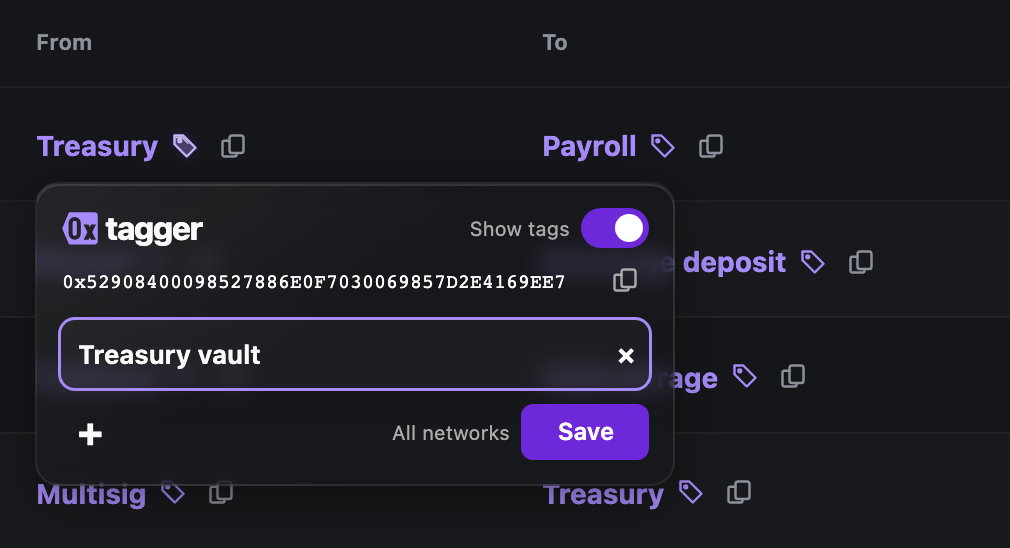
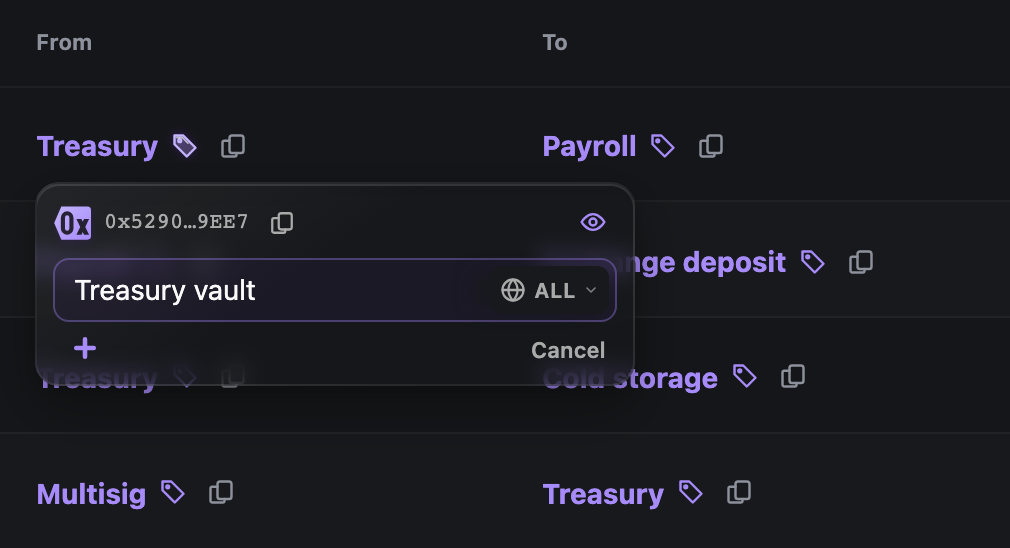
Default new tags to all networks and compact the address book

diff --git a/extension/book.css b/extension/book.css
@@ -1,21 +1,24 @@
-body { background: radial-gradient(ellipse at top right, var(--0xtagger-accent-canvas), transparent 55%), var(--0xtagger-canvas); }
-.book { width: min(1000px, calc(100% - 48px)); margin: 0 auto; padding: 28px 0; }
+body { background: var(--0xtagger-canvas); }
+.book { width: min(1080px, calc(100% - 40px)); margin: 0 auto; padding: 20px 0; }
 .book-header,.book-heading,.book-tools,.book-footer { display: flex; align-items: center; justify-content: space-between; gap: 16px; }
-.book-header { margin-bottom: 40px; }
-.book-header .brand { font-size: 24px; }
+.book-header { margin-bottom: 22px; }
+.book-header .brand { font-size: 22px; }
 .book-header .connection-line { width: 220px; }
-.book-heading { margin-bottom: 16px; }
-.book-heading h2 { font-size: 24px; letter-spacing: -.6px; }
-#count { margin: 4px 0 0; }
-.book-panel { padding: 0; overflow: hidden; }
-/* Search takes the room it needs; the two file actions belong together at the
-   end of the row rather than drifting apart across whatever is left. */
-.book-tools { justify-content: flex-start; gap: 8px; padding: 12px; border-bottom: 1px solid var(--0xtagger-line); }
-#search { flex: 1; max-width: 400px; margin-right: auto; }
-#import,#export { flex-shrink: 0; font-size: 11px; }
+.book-heading { margin-bottom: 12px; }
+.book-title { display: flex; align-items: baseline; flex-wrap: wrap; gap: 4px 10px; }
+.book-heading h2 { font-size: 20px; letter-spacing: -.5px; }
+#count { margin: 0; }
+#add-address { font-size: 12px; }
+.book-panel { padding: 0; overflow: hidden; border-radius: 10px; background: var(--0xtagger-panel); backdrop-filter: none; box-shadow: none; }
+/* Search takes the room it needs; sync and file actions stay together at the
+   end of the row. */
+.book-tools { justify-content: flex-start; gap: 12px; padding: 10px 12px; border-bottom: 1px solid var(--0xtagger-line); }
+#search { flex: 1; min-width: 0; max-width: 360px; margin-right: auto; padding: 7px 9px; font-size: 12px; }
+.book-actions { display: flex; align-items: center; flex-shrink: 0; gap: 4px; }
+#import,#export { font-size: 11px; padding: 7px 9px; }
 .table-scroll { overflow-x: auto; }
 table { width: 100%; border-collapse: collapse; }
-th,td { padding: 12px 16px; text-align: left; border-bottom: 1px solid var(--0xtagger-line); }
+th,td { padding: 7px 12px; text-align: left; border-bottom: 1px solid var(--0xtagger-line); }
 th { font-size: 10px; font-weight: 600; color: var(--0xtagger-muted); }
 th:first-child { width: 40%; }
 th:last-child { width: 48px; }
@@ -27,11 +30,12 @@ tr:last-child td { border-bottom: 0; }
 .records-table .network-cell,.records-table .source-cell { color: var(--0xtagger-muted); font-size: 11px; }
 .record { max-width: 100%; text-align: left; padding: 0; color: var(--0xtagger-ink); background: none; }
 .record:hover strong { color: var(--0xtagger-accent); }
-.record strong { display: block; font-size: 13px; font-weight: 700; overflow-wrap: anywhere; }
+.record strong { display: block; font-size: 12px; line-height: 1.4; font-weight: 650; overflow-wrap: anywhere; }
 .address-value { display: flex; align-items: center; gap: 5px; min-width: 0; }
-.address-value code { display: block; min-width: 0; font: 12px/1.6 ui-monospace, monospace; overflow-wrap: anywhere; }
+.address-value code { display: block; min-width: 0; font: 11px/1.5 ui-monospace, monospace; overflow-wrap: anywhere; }
 .address-value .address-short { display: none; }
-.address-value .copy { flex-shrink: 0; }
+.address-value .copy { flex: 0 0 22px; width: 22px; height: 22px; padding: 4px; }
+.address-value .copy svg { width: 14px; height: 14px; }
 .copy { color: var(--0xtagger-muted); }
 #empty { padding: 36px 16px; text-align: center; color: var(--0xtagger-muted); font-size: 13px; }
 #empty p { margin: 0 0 8px; }
@@ -48,12 +52,11 @@ tr:last-child td { border-bottom: 0; }
 }
 @media (max-width: 600px) {
   .book { width: calc(100% - 24px); padding: 16px 0; }
-  .book-header { margin-bottom: 28px; }
+  .book-header { margin-bottom: 18px; }
   .book-header .connection-line { width: 180px; }
-  .book-tools { display: grid; grid-template-columns: minmax(0,1fr) auto auto; gap: 8px; }
+  .book-tools { display: grid; grid-template-columns: minmax(0,1fr); gap: 6px; }
   #search { grid-column: 1 / -1; min-width: 0; max-width: none; margin-right: 0; }
-  #import { grid-column: 2; }
-  #export { grid-column: 3; }
+  .book-actions { justify-content: flex-end; }
   .records-table thead { position: absolute; width: 1px; height: 1px; overflow: hidden; clip-path: inset(50%); white-space: nowrap; }
   .records-table tbody { display: block; }
   .records-table tr { display: grid; grid-template-columns: minmax(0,1fr) auto; grid-template-areas: 'tag tag' 'network address'; column-gap: 10px; align-items: center; padding: 10px 12px; border-bottom: 1px solid var(--0xtagger-line); }

diff --git a/tests/browser/core.spec.js b/tests/browser/core.spec.js
@@ -803,16 +803,36 @@ test.describe('a name the website already shows', () => {
     await expect(fromSite(page)).toHaveCount(0);
   });
 
-  // A label belongs to the chain the page was showing it on. Saving an
-  // Ethereum contract's name to every network would put it against whatever
-  // sits at that address on Base.
-  test('saves a name to the network the website was showing', async ({ page }) => {
+  test('website suggestions default to all networks', async ({ page }) => {
     await open(page, labelled('row', other, 'Uniswap V3: Router'), [record]);
     await tagFor(page, 'row').click();
-    await expect(page.getByRole('dialog').locator('.save-scope')).toHaveText('Ethereum');
+    await expect(page.getByRole('dialog').locator('.save-scope')).toHaveText('All networks');
     await submit(page);
     await expect.poll(() => page.evaluate(() => window.saves.at(-1)))
-      .toMatchObject({ address: other, scope: 'eip155:1' });
+      .toMatchObject({ address: other, scope: 'global', source: 'etherscan:page' });
+  });
+
+  test('website suggestions use an explicitly selected network', async ({ page }) => {
+    await open(page, labelled('row', other, 'Uniswap V3: Router'), [record]);
+    await tagFor(page, 'row').click();
+    await page.getByRole('dialog').locator('.network').click();
+    await page.getByRole('listbox', { name: 'Save for' }).getByRole('option', { name: /Base/ }).click();
+    await submit(page);
+    await expect.poll(() => page.evaluate(() => window.saves.at(-1)))
+      .toMatchObject({ address: other, scope: 'eip155:8453', source: 'etherscan:page' });
+  });
+
+  test('adding a suggested name keeps saved network tags and defaults the new name to all networks', async ({ page }) => {
+    await open(page, labelled('row', other, 'Uniswap V3: Router'), [{ ...record, address: other, scope: 'eip155:1' }]);
+    await tagFor(page, 'row').click();
+    await expect(page.getByRole('dialog').locator('.save-scope').first()).toHaveText('Ethereum');
+    await offer(page).getByRole('button', { name: 'Add tag Uniswap V3: Router', exact: true }).click();
+    await submit(page);
+    expect(await page.evaluate(() => window.saves)).toEqual([
+      expect.objectContaining({ address: other, scope: 'global', tags: ['Uniswap V3: Router'] }),
+    ]);
+    expect(await page.evaluate(() => window.state.records.find(item => item.scope === 'eip155:1').tags))
+      .toEqual(['Treasury', 'Operations']);
   });
 
   // A name this editor put in the field itself is not something anyone typed,
@@ -884,7 +904,7 @@ test.describe('a name the website already shows', () => {
     await expect(fromSite(page)).toHaveText('(from Etherscan)');
     await submit(page);
     await expect.poll(() => page.evaluate(() => window.saves.at(-1)))
-      .toMatchObject({ address: other, scope: 'eip155:1', tags: ['Mog Coin'], source: 'etherscan:page' });
+      .toMatchObject({ address: other, scope: 'global', tags: ['Mog Coin'], source: 'etherscan:page' });
   });
 
   test('offers nothing for a token the row was cut short to name', async ({ page }) => {
@@ -926,11 +946,11 @@ test.describe('a name the website already shows', () => {
         await tagFor(page, 'token').click();
         await expect(input(page)).toHaveValue(name);
         await expect(fromSite(page)).toHaveText('(from Etherscan)');
-        await expect(page.getByRole('dialog').locator('.save-scope')).toHaveText('Ethereum');
+        await expect(page.getByRole('dialog').locator('.save-scope')).toHaveText('All networks');
         expect(await page.evaluate(() => window.saves)).toHaveLength(0);
         await submit(page);
         await expect.poll(() => page.evaluate(() => window.saves.at(-1)))
-          .toMatchObject({ address: token, scope: 'eip155:1', tags: [name], source: 'etherscan:page' });
+          .toMatchObject({ address: token, scope: 'global', tags: [name], source: 'etherscan:page' });
         await expect(page.locator('#token')).toHaveText('Staked Frax ... (sfrxUS...)');
         await page.locator('#token').click();
         expect(await page.evaluate(() => window.nativeClick)).toBe(`/token/${token}`);

diff --git a/extension/book.html b/extension/book.html
@@ -8,12 +8,19 @@
         <button id="location" aria-label="Address book" aria-haspopup="menu" aria-expanded="false" popovertarget="location-menu"><span>On this device</span><svg viewBox="0 0 16 16" fill="none" stroke="currentColor" stroke-width="1.5" aria-hidden="true"><path d="m4 6 4 4 4-4"/></svg></button>
         <div id="location-menu" popover role="menu" aria-label="Your address books"></div>
         <button id="remove-book" class="quiet icon" aria-label="Remove this address book"></button>
-        <button id="refresh" class="quiet icon" aria-label="Sync address book" data-tip="Sync address book"><svg viewBox="0 0 16 16" fill="none" stroke="currentColor" stroke-width="1.5" stroke-linecap="round" stroke-linejoin="round" aria-hidden="true"><path d="M13 5a5.5 5.5 0 1 0 .3 5M13 2v3H10"/></svg></button>
       </div>
     </header>
-    <section class="book-heading"><div><h2>Address book</h2><p id="count" class="muted"></p></div><button id="add-address" class="primary">+ Add address</button></section>
+    <section class="book-heading"><div class="book-title"><h2>Address book</h2><p id="count" class="muted"></p></div><button id="add-address" class="primary">+ Add address</button></section>
     <section class="panel book-panel">
-      <div class="book-tools"><input id="search" type="search" aria-label="Search address book" placeholder="Search tags or addresses" autocomplete="off" spellcheck="false" autocorrect="off" autocapitalize="off"><button id="import" class="quiet" data-tip="Brings in a 0xtagger export (.json), a Safe address book, or a Safe signer export (.csv)">Import</button><input id="import-file" type="file" accept="application/json,.json,text/csv,.csv" hidden><button id="export" class="quiet">Export book</button></div>
+      <div class="book-tools">
+        <input id="search" type="search" aria-label="Search address book" placeholder="Search tags or addresses" autocomplete="off" spellcheck="false" autocorrect="off" autocapitalize="off">
+        <div class="book-actions" role="group" aria-label="Address book actions">
+          <button id="refresh" class="quiet icon" aria-label="Sync address book" data-tip="Sync address book"><svg viewBox="0 0 16 16" fill="none" stroke="currentColor" stroke-width="1.5" stroke-linecap="round" stroke-linejoin="round" aria-hidden="true"><path d="M13 5a5.5 5.5 0 1 0 .3 5M13 2v3H10"/></svg></button>
+          <button id="import" class="quiet" data-tip="Brings in a 0xtagger export (.json), a Safe address book, or a Safe signer export (.csv)">Import</button>
+          <input id="import-file" type="file" accept="application/json,.json,text/csv,.csv" hidden>
+          <button id="export" class="quiet">Export book</button>
+        </div>
+      </div>
       <div class="table-scroll"><table class="records-table"><thead><tr><th>Tags</th><th>Address</th><th>Network</th><th>Source</th></tr></thead><tbody id="results"></tbody></table></div>
       <div id="empty"><p></p><button id="copy-in" type="button" class="quiet accent" hidden></button><small id="empty-hint">Drop a file here, or use Import: a 0xtagger export (.json), a Safe address book, or a Safe signer export (.csv).</small></div>
       <p id="shown" class="muted"></p>

diff --git a/docs/demo/screenshots.spec.js b/docs/demo/screenshots.spec.js
@@ -2,6 +2,37 @@ import { test, expect } from '@playwright/test';
 import { mkdir } from 'node:fs/promises';
 import { address, record, start } from '../../tests/browser/controller.js';
 
+test.use({ locale: 'en-US', timezoneId: 'UTC' });
+
+// Sample data, rendered by the same book used in the extension and on a server.
+// These are review images, kept separate from the behavioral test suite.
+test('capture the compact address book on light, dark and narrow surfaces', async ({ page }) => {
+  await mkdir('docs/images', { recursive: true });
+  await page.route('**/extension/book-extension.js', route => route.fulfill({ contentType: 'text/javascript', body: '' }));
+  for (const [theme, width] of [['dark', 1200], ['light', 1200], ['dark', 390]]) {
+    await page.setViewportSize({ width, height: 740 });
+    await page.emulateMedia({ colorScheme: theme });
+    await page.goto('/extension/book.html');
+    await page.evaluate(async () => {
+      const { startBook } = await import('/extension/book.js');
+      const names = ['Treasury', 'Operations Safe', 'Frax Finance: sfrxUSD Token', 'Curve: CRV Token',
+        'Revenue Splitter', 'Protocol Multisig', 'USDC Strategy', 'Governance Timelock',
+        'Core Contributors', 'Fee Receiver', 'Liquidity Operations', 'Reserve Vault'];
+      const state = { activeBook: 'demo', bookName: 'Personal', bookKind: 'server', stateRevision: 1,
+        books: [{ id: 'demo', name: 'Personal', kind: 'server', where: 'book.example' }],
+        syncedAt: '2026-10-27T16:00:00Z',
+        records: names.map((name, index) => ({ address: '0x' + (index + 10).toString(16).padStart(2, '0').repeat(20),
+          scope: index === 4 ? 'eip155:8453' : 'global', tags: [name], version: 'demo',
+          source: ['etherscan:page', 'arkham:api', 'agent'][index % 3] })),
+      };
+      await startBook({ rpc: async message => message.type === 'State' ? { state } : {}, watchBook: () => {} });
+      document.querySelector('#search').blur();
+      await document.fonts.ready;
+    });
+    await page.screenshot({ path: `docs/images/address-book-${width < 600 ? 'mobile' : theme}.png`, fullPage: true, animations: 'disabled' });
+  }
+});
+
 // The one still image the README shows. The moving demo beside it is recorded
 // by hand; everything here is drawn by the shipped controller over sample data,
 // so the picture cannot drift from what the extension actually does.

diff --git a/tests/browser/web.spec.js b/tests/browser/web.spec.js
@@ -5,6 +5,7 @@ const base = 'http://127.0.0.1:8723/0xtagger';
 const address = '0x' + '12'.repeat(20);
 const imported = '0x' + '34'.repeat(20);
 const added = '0x' + '56'.repeat(20);
+const globalAdded = '0x' + '57'.repeat(20);
 const key = { Authorization: 'Bearer test-only-token' };
 
 test('hosted book: one server, scoped edits, stale writes and file round trip without a browser key', async ({ page }) => {
@@ -48,6 +49,14 @@ test('hosted book: one server, scoped edits, stale writes and file round trip wi
     await expect(page.locator('.record', { hasText: 'Saved by the extension' })).toHaveCount(1);
 
     await page.getByRole('button', { name: '+ Add address', exact: true }).click();
+    await page.locator('#manual-address').fill(globalAdded);
+    await page.getByRole('button', { name: 'Add tags', exact: true }).click();
+    await expect(page.getByRole('dialog').locator('.save-scope')).toHaveText('All networks');
+    await page.getByRole('textbox', { name: 'Tag 1', exact: true }).fill('An all-networks tag');
+    await page.getByRole('textbox', { name: 'Tag 1', exact: true }).press('Enter');
+    await expect(page.getByRole('dialog')).toHaveCount(0);
+
+    await page.getByRole('button', { name: '+ Add address', exact: true }).click();
     await page.locator('#manual-address').fill(added);
     await page.locator('#network').fill('10');
     await page.getByRole('button', { name: 'Add tags', exact: true }).click();
@@ -61,9 +70,10 @@ test('hosted book: one server, scoped edits, stale writes and file round trip wi
     await page.getByRole('button', { name: 'Import 1 name', exact: true }).click();
     await expect(page.locator('#review')).toBeHidden();
     await page.reload();
-    await expect(page.locator('#results tr')).toHaveCount(4);
+    await expect(page.locator('#results tr')).toHaveCount(5);
     records = (await (await api.get(base + '/tags')).json()).records;
     expect(records.find(item => item.address === added)).toMatchObject({ scope: 'eip155:10', tags: ['New Optimism tag'] });
+    expect(records.find(item => item.address === globalAdded)).toMatchObject({ scope: 'global', tags: ['An all-networks tag'] });
     expect(records.find(item => item.address === imported)).toMatchObject({ scope: 'eip155:8453', source: 'safe:address-book' });
 
     const downloaded = page.waitForEvent('download');

diff --git a/extension/editor.js b/extension/editor.js
@@ -75,11 +75,10 @@ export function createEditor(container, { address, scope: opened = 'global', sta
   const offered = suggestion?.name && usableName(suggestion.name) ? suggestion : null;
   const prefill = offered && !lines.length ? offered : null;
   // The last line is always there for a new tag, and saves like any other.
-  // A tag typed by hand is for the network the caller names: on a website
-  // that is all of them, since most addresses are the same contract
-  // everywhere. A name the website itself shows is for the website's network.
+  // New tags use the caller's default, including names the website suggests.
+  // Saved tags keep their scope.
   const blank = (tag = '', scope = newScope) => ({ tag, scope, saved: null, removed: false, moved: false });
-  let fresh = prefill ? blank(prefill.name, opened) : blank();
+  let fresh = prefill ? blank(prefill.name) : blank();
   // The new line shows only when it is needed: for an address with no tags,
   // or once "+" is pressed. Otherwise the list is just the tags.
   let adding = false;
@@ -275,7 +274,7 @@ export function createEditor(container, { address, scope: opened = 'global', sta
     get('.offer').replaceChildren();
     if (spare) {
       const button = element('button', 'Add', { type: 'button', class: 'quiet', 'aria-label': `Add tag ${offered.name}` });
-      button.onclick = () => { fresh.tag = offered.name; fresh.scope = opened; adding = true; renderLines(null); rowOf(fresh)?.querySelector('textarea').focus(); };
+      button.onclick = () => { fresh.tag = offered.name; fresh.scope = newScope; adding = true; renderLines(null); rowOf(fresh)?.querySelector('textarea').focus(); };
       get('.offer').append(element('span', offered.name), button);
     }
   }

diff --git a/tests/browser/adapters.spec.js b/tests/browser/adapters.spec.js
@@ -279,13 +279,13 @@ test.describe('Etherscan token holders', () => {
     expect(await page.evaluate(() => window.nativeCopied)).toBe(address);
   });
 
-  test('offers the holder name only for the matching wallet and chain', async ({ page }) => {
+  test('offers the verified holder name with an all-networks default', async ({ page }) => {
     await start(page, { site, html: table(row()), framed: true, records: [] });
     await page.getByRole('button', { name: 'Edit wallet tags' }).click();
     await expect(page.getByRole('textbox', { name: 'Tag 1', exact: true })).toHaveValue('Curve: Fee Receiver');
     await page.getByRole('textbox', { name: 'Tag 1', exact: true }).press('Enter');
     await expect.poll(() => page.evaluate(() => window.saves.at(-1)))
-      .toMatchObject({ address, scope: 'eip155:1', tags: ['Curve: Fee Receiver'], source: 'etherscan:page' });
+      .toMatchObject({ address, scope: 'global', tags: ['Curve: Fee Receiver'], source: 'etherscan:page' });
   });
 
   test('rejects a holder whose link and copy disagree or whose token page differs', async ({ page }) => {

diff --git a/extension/page.js b/extension/page.js
@@ -486,10 +486,9 @@ export async function createPageController({
     const offered = display && adapter.names && adapter.source
       ? usableName(adapter.names(display, { address: target.address, url: url() })) : null;
     const suggestion = offered ? { name: offered, source: adapter.source } : null;
-    // A name accepted from a website belongs to the network that website was
-    // showing it on: a contract's label on one chain says nothing about the
-    // address on another. A name typed by hand keeps the scope it always had.
-    const scope = recordFor(target)?.scope || (suggestion && target.network) || 'global';
+    // Existing tags keep their scope. New tags start on all networks,
+    // including names suggested by the website.
+    const scope = recordFor(target)?.scope || 'global';
     editor = createEditor(overlay.box, { address: target.address, scope, newScope: 'global', state, save,
       suggestion,
       visibility,

diff --git a/extension/book.js b/extension/book.js
@@ -36,8 +36,7 @@ const picker = manageBooks ? bookPicker({
   // A refused name is reported in the row being typed in, so the picker keeps it.
   rename: async (book, name) => { await rpc({ type: 'RenameBook', book, name }); tell(''); },
 }) : () => {};
-$('#location').hidden = !manageBooks;
-$('#remove-book').hidden = !manageBooks;
+$('#location').closest('.connection-line').hidden = !manageBooks;
 function render(next = state) {
   if (!currentSnapshot(next, state)) return;
   if (next.activeBook !== state.activeBook) $('#search').value = '';

diff --git a/oxtagger_cli.py b/oxtagger_cli.py
@@ -497,24 +497,23 @@ def write_input(argv: list[str], command: str, description: str) -> tuple[argpar
         epilog="Writes read the book's token from its configured file; it is never an argument.")
     parser.add_argument("name", nargs="*", metavar="ADDRESS=TAG",
                         help="one or more addresses and the name each one has")
-    scope_of = parser.add_mutually_exclusive_group(required=True)
+    scope_of = parser.add_mutually_exclusive_group()
     scope_of.add_argument("--chain", metavar="ID",
-                          help="the network these names were established on (the normal choice)")
+                          help="limit these names to one network instead of all networks")
     scope_of.add_argument("--global", dest="everywhere", action="store_true",
-                          help="name the address on every network: only for an identity "
-                               "the evidence shows holds across chains")
+                          help="name the address on all networks (the default)")
     parser.add_argument("--file", metavar="PATH",
                         help="read `ADDRESS Tag` lines from a file, or - for stdin")
     parser.add_argument("--json", action="store_true", help="machine-readable output")
     args = parser.parse_args(argv)
 
-    if args.chain and not CHAIN.fullmatch(args.chain):
-        sys.exit(f"{PROG}: not a chain id: {args.chain!r}")
+    if args.chain is not None and not CHAIN.fullmatch(args.chain):
+        parser.error(f"not a chain id: {args.chain!r}")
     if not args.name and not args.file:
         parser.print_help()
         return args, []
 
-    scope = "global" if args.everywhere else f"eip155:{args.chain}"
+    scope = f"eip155:{args.chain}" if args.chain else "global"
     names = additions_from(
         [*args.name, *(read_lines(args.file) if args.file else [])], scope)
     return args, names

diff --git a/tests/test_cli.py b/tests/test_cli.py
@@ -332,12 +332,22 @@ def writes(book):
 
 
 @pytest.mark.parametrize('write', [cli.add, cli.rename])
-def test_writes_require_exactly_one_scope(write):
-    for argv in [[f'{ADDRESS}=Treasury'],
-                 ['--chain', '1', '--global', f'{ADDRESS}=Treasury']]:
+def test_writes_reject_conflicting_or_empty_scopes(write):
+    for argv in [['--chain', '1', '--global', f'{ADDRESS}=Treasury'],
+                 ['--chain', '', f'{ADDRESS}=Treasury']]:
         with pytest.raises(SystemExit) as refused:
             write(argv)
         assert refused.value.code == 1  # bad input never means book unavailable
+
+
+def test_writes_default_to_all_networks_and_preserve_chain_overrides(book):
+    assert cli.add(['--chain', '1', f'{ADDRESS}=Ethereum treasury']) == 0
+    assert cli.add([f'{ADDRESS}=Treasury']) == 0
+    before = held(book)[(ADDRESS, 'eip155:1')]
+    assert held(book)[(ADDRESS, 'global')]['tags'] == ['Treasury']
+    assert cli.rename([f'{ADDRESS}=Our treasury', '--json']) == 0
+    assert held(book)[(ADDRESS, 'global')]['tags'] == ['Our treasury']
+    assert held(book)[(ADDRESS, 'eip155:1')] == before
 
 
 @pytest.mark.parametrize('write', [cli.add, cli.rename])

diff --git a/INSTALL.md b/INSTALL.md
@@ -34,7 +34,7 @@ Open a supported website, then turn on the popup's **On this website** switch. T
 
 Click the purple tag glyph beside an address to edit its tags. The first tag is the default; + appends another and arrows reorder them. Enter saves; Escape or an outside click dismisses the draft. Turn off **Show tags** to temporarily reveal the website's original presentation for matching occurrences on that page. The popup's **On this website** switch restores every website default and persists across refreshes.
 
-An inline editor shows its Save scope beside the button. It keeps an existing record's scope, otherwise uses the website's network for a usable site name, otherwise all networks. A pasted address in the popup starts with an explicit **All networks** choice, because its source may have nothing to do with the active tab. The popup and full-page book can choose a network for new tags. Removing a network override reveals global tags. The address switch suppresses the whole replacement until restored or reset by refresh, navigation, or switching books. **Remove tags** in the book editor prepares a deletion; Save commits it.
+An inline editor shows its Save scope beside the button. New tags default to **All networks**, including names suggested by a website. Existing tags keep their saved scope. The popup and full-page book can choose a network for new tags. Removing a network override reveals global tags. The address switch suppresses the whole replacement until restored or reset by refresh, navigation, or switching books. **Remove tags** in the book editor prepares a deletion; Save commits it.
 
 ## Keep a book on a server
 
@@ -135,17 +135,17 @@ record. The existing first tag stays the displayed name; nothing is replaced
 or deleted.
 
 ```sh
-0xtagger add --chain 1 '0x1f9840a85d5aF5bf1D1762F925BDADdC4201F984=UNI Token'
-0xtagger add --chain 1 '0x1f9840a85d5aF5bf1D1762F925BDADdC4201F984=UNI Token' '0x1f9840a85d5aF5bf1D1762F925BDADdC4201F984=Uniswap Token'
+0xtagger add '0x1f9840a85d5aF5bf1D1762F925BDADdC4201F984=UNI Token'
+0xtagger add '0x1f9840a85d5aF5bf1D1762F925BDADdC4201F984=UNI Token' '0x1f9840a85d5aF5bf1D1762F925BDADdC4201F984=Uniswap Token'
 0xtagger add --chain 1 --file identities.txt   # `ADDRESS Tag` per line, # comments skipped
 0xtagger add --global '0xd8dA6BF26964aF9D7eEd9e03E53415D37aA96045=vitalik.eth'
 ```
 
-`--chain` is the normal choice: a name established on one network belongs to
-that network. `--global` names the address everywhere and is for an identity
-the evidence shows holds across chains, never a fallback when the chain is
-unclear. One invocation carries one scope; run it again for another. The whole
-batch is checked before anything is sent and normally lands in one atomic
+Names default to all networks; `--global` makes that choice explicit.
+Use `--chain ID` to limit a name to one network. Existing scoped records keep
+their scope; pass that chain when renaming one. One invocation carries one
+scope; run it again for another. The whole batch is checked before anything
+is sent and normally lands in one atomic
 request. Repeated addresses collect tags in the order given. If only a global
 record exists, a chain addition creates a more specific record that becomes the
 displayed name on that chain. `Agent` is recorded as the source only
